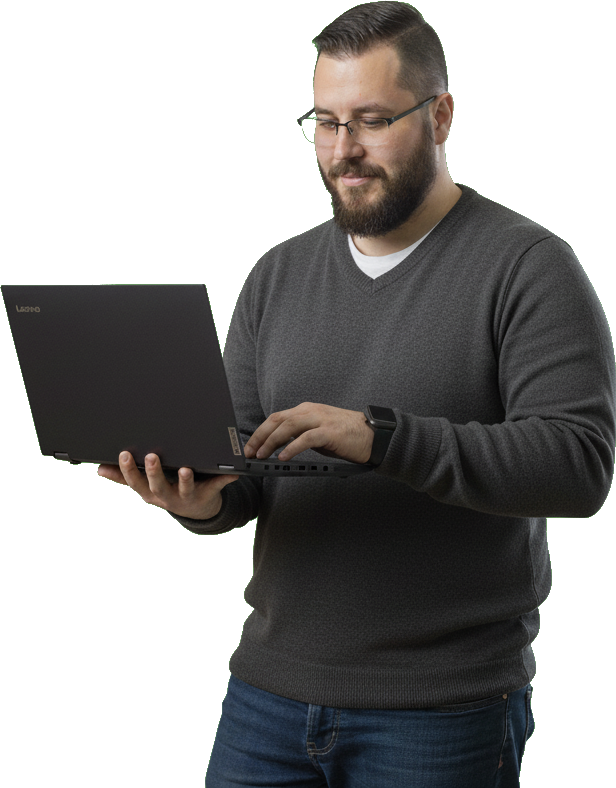
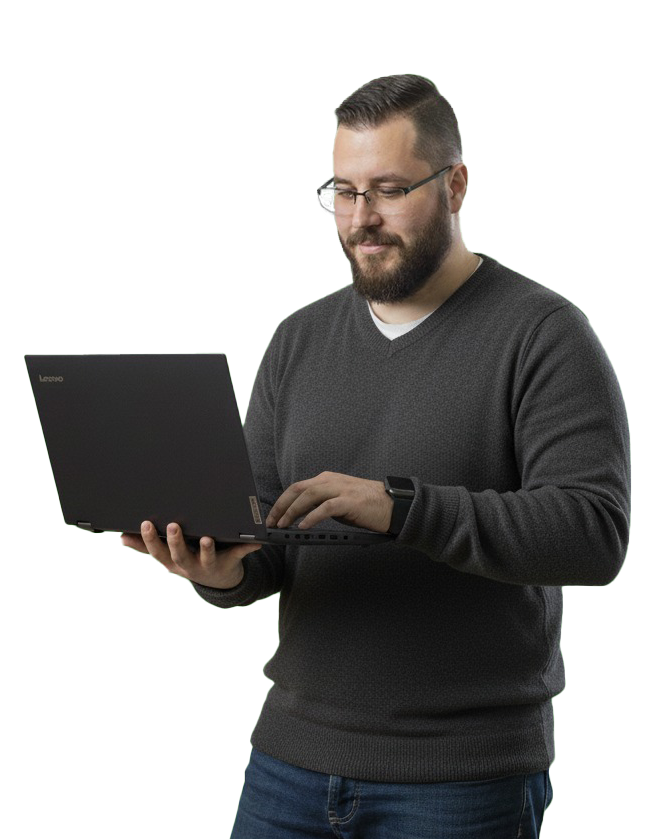
chore: update assets and generated files
- Update photo assets for profile display
- Regenerate color styles
- Update test configuration

Changed region(s): [[0.0, 0.0, 1.0, 1.0], [0.401, 0.9442, 0.4627, 1.0]]

diff --git a/vitest.config.ts b/vitest.config.ts
@@ -1,8 +1,8 @@
-import react from '@vitejs/plugin-react';
+// import react from '@vitejs/plugin-react';
 import { defineConfig } from 'vitest/config';
 
 export default defineConfig({
-  plugins: [react()],
+  // plugins: [react()], // Temporarily disabled due to version compatibility
   test: {
     environment: 'happy-dom',
     globals: true,

diff --git a/src/styles/generated-colors.css b/src/styles/generated-colors.css
@@ -1,6 +1,6 @@
 /**
  * Auto-generated Color Interpolations
- * Generated at: 2025-11-11T23:06:18.956Z
+ * Generated at: 2025-11-12T03:52:23.078Z
  * Source: src/data/colors.ts
  *
  * DO NOT EDIT THIS FILE MANUALLY
